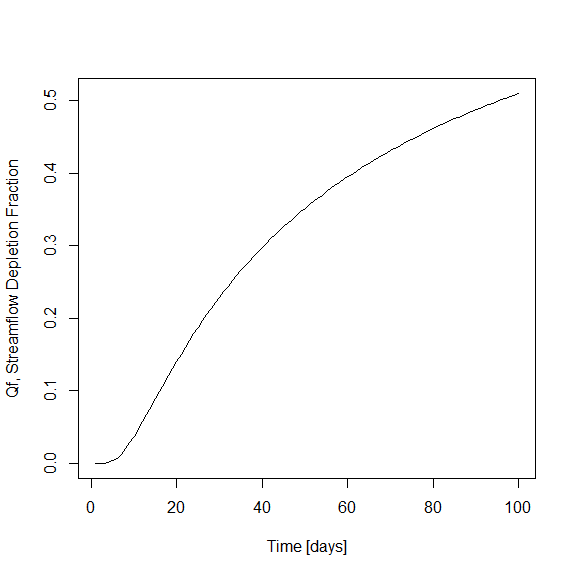
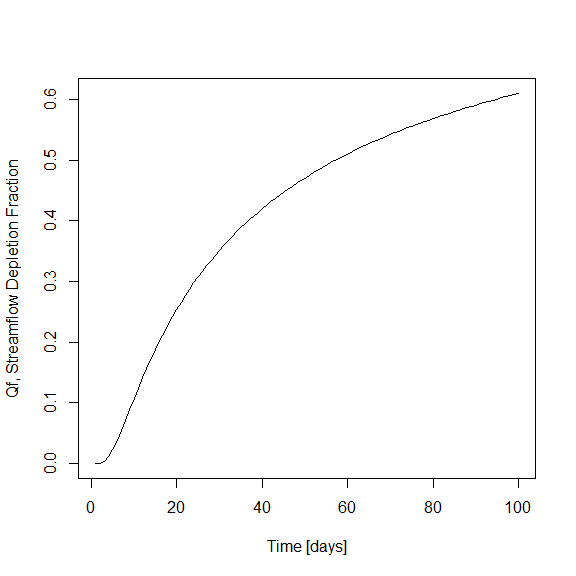
Complete vignette; ready for first round of alpha testing

diff --git a/README.md b/README.md
@@ -25,7 +25,8 @@ You can install streamDepletr from GitHub with:
 
 ``` r
 # install.packages("devtools")
-devtools::install_github("szipper/streamDepletr")
+devtools::install_github("szipper/streamDepletr",
+                         build_vignettes=T)
 ```
 
 ## Example
@@ -41,7 +42,7 @@ require(streamDepletr)
 Qf <- glover(t  = seq(1,100),     # timesteps to evaluate
              d  = 150,            # well to stream distance
              S  = 0.10,           # specific yield
-             Tr = 30*1e-5*86400)  # 50 m thick aquifer with hydraulic conductivity of 1e-5 m/s
+             Tr = 50*1e-5*86400)  # 50 m thick aquifer with hydraulic conductivity of 1e-5 m/s
 
 # plot
 plot(seq(1,100), Qf, type="l", xlab="Time [days]", ylab="Qf, Streamflow Depletion Fraction")
@@ -49,5 +50,5 @@ plot(seq(1,100), Qf, type="l", xlab="Time [days]", ylab="Qf, Streamflow Depletio
 
 ![](README-SamplePlot-1.png)<!-- -->
 
-For more examples, please check out the vignette:
+For more examples, please check out the package vignette:
 `browseVignettes("streamDepletr")`

diff --git a/StyleAndConventions.md b/StyleAndConventions.md
@@ -11,7 +11,8 @@
 
 - To add a dependency: `devtools::use_package("packageName")`
 - To generate documentation: `devtools::document()`
-- To install package: `devtools::install("../streamDepletr")`
+- To build vignettes: `devtools::build_vignettes()`
+- To install package: `devtools::install("../streamDepletr", build_vignettes = T)`
 
 # Style
 Goal: common style among all functions within the package. 
